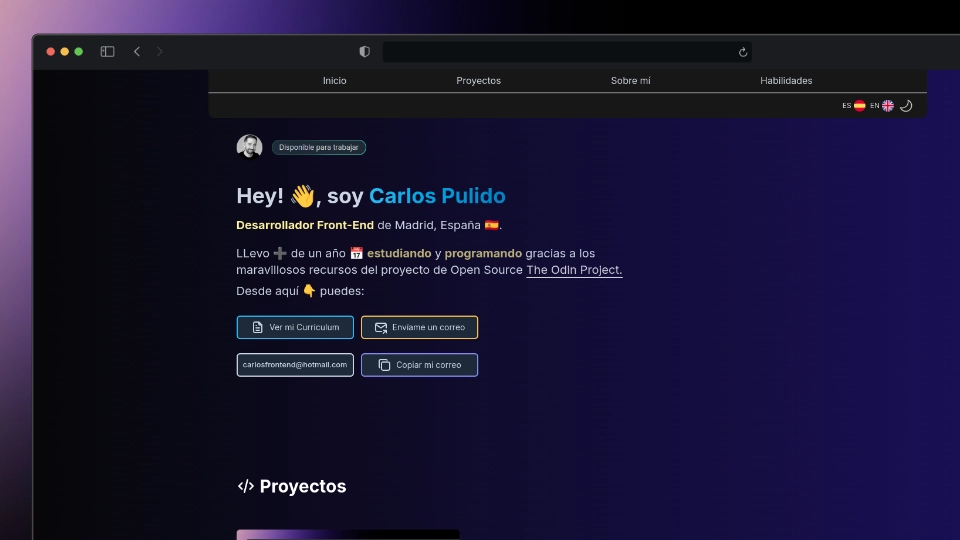
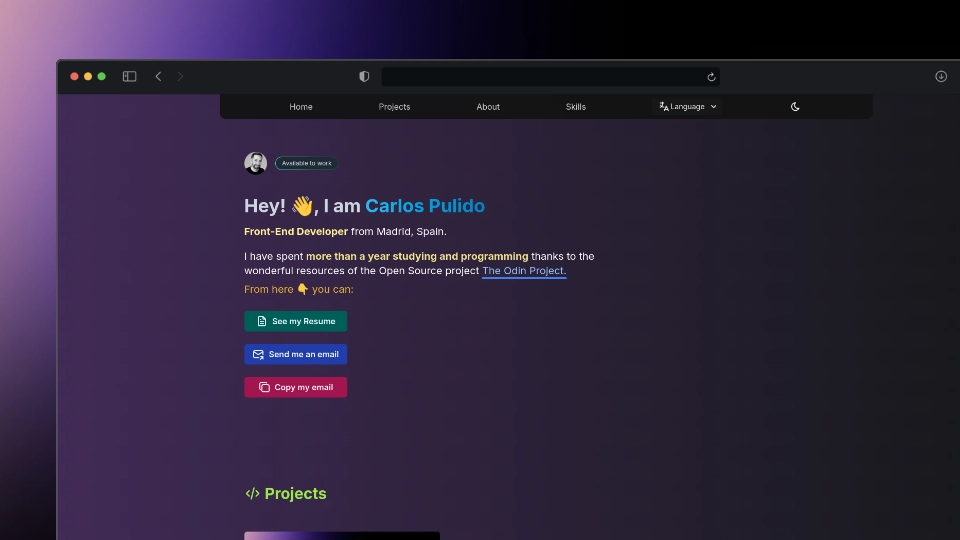
Feat: Styles and updated README.md file

diff --git a/src/components/ButtonToolTip.jsx b/src/components/ButtonToolTip.jsx
@@ -33,7 +33,7 @@ const ButtonToast = ({ currentLang }) => {
           }}
           type="button"
           id="copyEmailButton"
-          className="flex w-[200px] h-10 items-center justify-center bg-indigo-700 ring transition-all duration-200 hover:scale-105 hover:ring-4 ease-in-out ring-indigo-200 text-slate-300 text-md font-semibold gap-2 rounded-md"
+          className="flex w-[200px] h-10 items-center justify-center bg-pink-800 transition-all duration-200 hover:scale-105 hover:ring-4 ease-in-out ring-slate-950 dark:ring-white text-slate-100 text-md font-semibold gap-2 rounded-md"
         >
           <span>
             <CopyIcon />

diff --git a/README.md b/README.md
@@ -4,11 +4,11 @@ This repository is to host the code for my personal portfolio project.
 
 ## Screenshots
 
-![lightMode](https://github.com/user-attachments/assets/43e40578-e92f-4253-8f10-bc45409a5622)
+![LightMode](https://github.com/user-attachments/assets/61c4fbaf-9145-43fa-9be1-2b96cbdf220a)
 
 ###
 
-![darkMode](https://github.com/user-attachments/assets/3ade6928-7706-42d8-b12f-8e8c60775f46)
+![DarkMode](https://github.com/user-attachments/assets/0dc212f1-77ec-4ea2-a596-e56359ca784f)
 
 ## Features
 
@@ -34,6 +34,6 @@ It is the first time I work with technologies like Astro, Tailwind and MDX... Th
 
 ## Demo
 
-![animation](https://github.com/user-attachments/assets/e8e67dcd-5a44-4ace-b8d0-8280f7543578)
+![animation](https://github.com/user-attachments/assets/8054f178-6b74-428d-963f-513645be16ea)
 
-## [Live Preview](https://carlospulido.netlify.app/es/)
+## [Live Preview](https://carlospulido.netlify.app)
